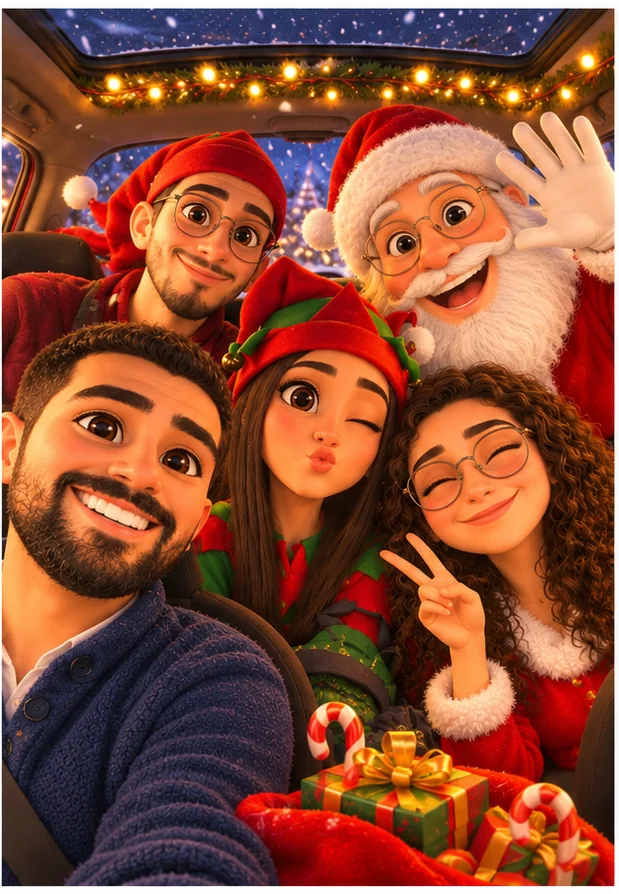
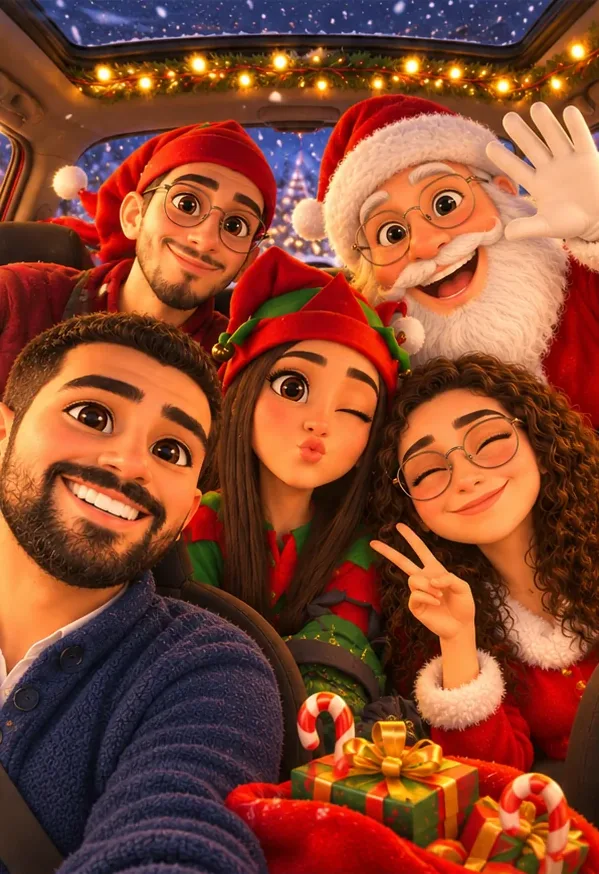
Phone and desktop polish for Santa pages and Christmas Proposal
No orphans at any width (balanced text, even button and link rows), numbers
centred in step circles, outlined Team Sign In, centred map tools, sign-in
picture shows every face, admin fits 360px phones, proposal drops the
Contact form button.

diff --git a/public/santa/theme.css b/public/santa/theme.css
@@ -685,7 +685,7 @@ html { scroll-behavior: smooth; }
 @media (max-width: 819px) {
   .hero-strip { text-align: left; }
 }
-@media (max-width: 420px) {
+@media (max-width: 599px) {
   .hero-strip { grid-template-columns: minmax(0, 1fr); }
   .hero-strip li { grid-template-columns: 30px 1fr; align-items: center; gap: 12px; }
   .hero-strip li + li { border-left: 0; border-top: 1px solid var(--border); }
@@ -695,3 +695,72 @@ html { scroll-behavior: smooth; }
 .gold-rule { display: none; }
 .wrap.page { padding-top: 22px; }
 .crumbs { margin-bottom: -26px; }
+
+/* ---------- Phones: no lone words, numbers centred in circles, tidy link rows ---------- */
+/* Every line of text balances, so no line ends on a lone word (form fields wrap normally) */
+body { text-wrap: balance; }
+:is(input, textarea, select) { text-wrap: wrap; }
+/* Playfair's old-style figures sit low in a circle; use full-height figures, centred */
+.step .n, legend .n, .hero-strip b { font-variant-numeric: lining-nums; line-height: 1; }
+
+/* Team Sign In: an outlined button, quieter than Ask a Question */
+.btn-team, .santa-links a[href="admin.html"] { box-shadow: inset 0 0 0 1.5px rgba(87, 22, 7, .35); }
+.btn-team:hover, .santa-links a[href="admin.html"]:hover { box-shadow: inset 0 0 0 1.5px var(--brand); text-decoration: none; }
+.s-hero-body .btn-team { padding-inline: .9rem; }
+@media (min-width: 820px) { .s-hero-body .btn-team { padding-inline: .7rem; } }
+
+/* Bottom Santa links: an even two-by-two grid on phones, centred */
+@media (max-width: 699px) {
+  .santa-links { display: grid; grid-template-columns: repeat(4, minmax(0, 1fr)); gap: 8px; justify-items: stretch; text-align: center; }
+}
+@media (max-width: 479px) { .santa-links { grid-template-columns: repeat(2, minmax(0, 1fr)); } }
+@media (max-width: 699px) {
+  .santa-links-title { grid-column: 1 / -1; }
+  .santa-links a { text-align: center; padding: 10px 8px; }
+}
+
+/* Phones: How It Works cards centred; follow-us pills big enough to tap */
+@media (max-width: 759px) { .step { justify-items: center; text-align: center; } }
+.pill { min-height: 40px; display: inline-flex; align-items: center; padding-inline: 16px; }
+
+/* Home hero buttons on desktop: Reserve, Ask a Question and Team Sign In on one row.
+   Between 820 and 1099px there isn't room, so Reserve takes the first row and the other two share the second. */
+@media (min-width: 421px) and (max-width: 1099px) {
+  .s-hero-body .actions { display: grid; grid-template-columns: 1fr 1fr; }
+  .s-hero-body .actions > :first-child { grid-column: 1 / -1; }
+  .s-hero-body .actions > * { justify-content: center; }
+}
+@media (min-width: 1100px) {
+  .s-hero-body { padding-inline: 36px; }
+  .s-hero-body .actions { flex-wrap: nowrap; gap: 8px; }
+  .s-hero-body .actions > * { flex: 0 1 auto; white-space: nowrap; font-size: 14.5px; }
+  .s-hero-body .btn-primary, .s-hero-body .btn-secondary { padding: .75rem .85rem; }
+  .s-hero-body .btn-team { padding: .75rem .6rem; gap: 6px; }
+}
+
+/* No orphans at any width: short text balances its lines, longer text never ends on a lone word */
+.s-cta .btn-gold.big { white-space: nowrap; }
+@media (max-width: 400px) { .s-cta .btn-gold.big { font-size: 16px; padding: 18px 16px; } }
+
+/* Follow Us: the three links share one even row */
+.pill-row { display: grid; grid-auto-flow: column; grid-auto-columns: minmax(0, 1fr); gap: 8px; width: min(100%, 360px); margin-inline: auto; }
+.pill-row .pill { justify-content: center; padding-inline: 8px; }
+
+/* Book: the map hint and "Use my current location" sit centred under the map */
+.map-tools { display: flex; flex-direction: column; align-items: center; gap: 10px; text-align: center; }
+.map-tools .pin-state { text-align: center; }
+
+/* The three-step strip stacks wherever its columns would be too narrow (phones, and the 820-1099px hero) */
+@media (min-width: 820px) and (max-width: 1099px) {
+  .hero-strip { grid-template-columns: minmax(0, 1fr); text-align: left; }
+  .hero-strip li { grid-template-columns: 30px 1fr; align-items: center; gap: 12px; }
+  .hero-strip li + li { border-left: 0; border-top: 1px solid var(--border); }
+}
+
+/* Very small phones (320-380px): slightly smaller headings so their lines break evenly */
+@media (max-width: 400px) { legend .tt { font-size: 20px; } }
+@media (max-width: 345px) { legend .tt { font-size: 18px; } }
+@media (max-width: 359px) {
+  .s-cta h2 { font-size: 28px; }
+  .crumbs { gap: 5px; font-size: 12px; }
+}

diff --git a/public/santa/admin.html b/public/santa/admin.html
@@ -64,6 +64,7 @@ h3 { margin: 0; font-size: 16px; font-weight: 600; }
 .login form { background: #fff; border: 1px solid var(--line); border-radius: 16px; padding: 28px; width: min(380px, 100%); display: grid; gap: 14px; }
 .login img { width: 76px; justify-self: center; }
 .login h1 { font-size: 24px; margin: 0; text-align: center; }
+.login :is(h1, p, a) { text-wrap: balance; }
 .login label { display: grid; gap: 4px; font-weight: 500; }
 .err { color: var(--cancel); font-size: 14px; }
 
@@ -97,7 +98,7 @@ h3 { margin: 0; font-size: 16px; font-weight: 600; }
 .bottom-nav { display: none; }
 main { padding: 26px 28px 60px; display: grid; gap: 16px; max-width: 1240px; width: 100%; margin: 0 auto; align-content: start; }
 @media (max-width: 899px) {
-  .shell { grid-template-columns: 1fr; }
+  .shell { grid-template-columns: minmax(0, 1fr); }
   .side { display: none; }
   .mobile-bar {
     display: flex; align-items: center; gap: 10px; position: sticky; top: 0; z-index: 30; background: #fff;
@@ -330,6 +331,16 @@ pre.wa { white-space: pre-wrap; background: var(--bg); border-radius: 10px; padd
 .gate:disabled { cursor: not-allowed; opacity: .85; }
 .gate-hint { display: block; font-size: 12px; color: var(--muted, #6b6b6b); margin: 0 2px 10px; line-height: 1.35; }
 .mobile-bar .gate { width: auto; margin: 0; }
+/* Narrow phones: the title gives way so the buttons never push the page sideways */
+.mobile-bar b { min-width: 0; white-space: nowrap; overflow: hidden; text-overflow: ellipsis; }
+.mobile-bar .btn { flex: none; white-space: nowrap; }
+@media (max-width: 380px) { .mobile-bar { gap: 8px; padding-inline: 12px; } }
+/* Bottom tabs share the width evenly, so five tabs fit even a 360px phone */
+@media (max-width: 899px) {
+  .bottom-nav { grid-template-columns: repeat(5, minmax(0, 1fr)); }
+  .bottom-nav .tab { min-width: 0; }
+  .bottom-nav .tab > span:not(.count) { max-width: 100%; overflow: hidden; text-overflow: ellipsis; white-space: nowrap; }
+}
 /* Sidebar fits the screen: compact spacing, scrolls inside if the window is short,
    with "Signed in as … · Sign out" pinned to the bottom. */
 .side { height: 100vh; height: 100dvh; gap: 2px; padding: 14px 12px 0; overflow-y: auto; overscroll-behavior: contain; scrollbar-width: thin; }
@@ -355,11 +366,13 @@ pre.wa { white-space: pre-wrap; background: var(--bg); border-radius: 10px; padd
   box-shadow: 0 24px 50px -28px rgba(58, 15, 4, .35);
 }
 .login-card form { border: 0; border-radius: 0; width: 100%; padding: 32px; align-content: center; }
-.login .login-photo { display: block; height: 240px; }
-.login .login-photo img { width: 100%; height: 100%; object-fit: cover; object-position: 50% 30%; display: block; justify-self: stretch; }
+/* Phones: a square crop so every face (hats to Santa's smile) stays in the picture */
+.login .login-photo { display: block; aspect-ratio: 1 / 1; }
+.login .login-photo img { width: 100%; height: 100%; object-fit: cover; object-position: 50% 45%; display: block; justify-self: stretch; }
 @media (min-width: 760px) {
   .login-card { grid-template-columns: 1fr 1fr; min-height: 560px; }
-  .login .login-photo { height: auto; }
+  .login .login-photo { aspect-ratio: auto; }
+  .login .login-photo img { object-position: 50% 50%; }
   .login-card form { padding: 40px; }
 }
 </style>
@@ -370,7 +383,7 @@ pre.wa { white-space: pre-wrap; background: var(--bg); border-radius: 10px; padd
   <div class="login-card">
   <picture class="login-photo">
     <source srcset="signin-hero.webp" type="image/webp">
-    <img src="signin-hero.jpg" width="619" height="894" alt="">
+    <img src="signin-hero.jpg" width="599" height="874" alt="">
   </picture>
   <form id="login-form">
     <img src="logo.png" alt="">

diff --git a/public/santa/book.html b/public/santa/book.html
@@ -127,7 +127,7 @@ Greek Orthodox Scouts &amp; Guides - Swefieh
     <div class="s-hero-art">
       <picture class="hero-photo">
         <source srcset="book-hero.webp" type="image/webp">
-        <img src="book-hero.jpg" width="619" height="894" alt="Illustration of Santa waving with Mrs. Claus, two elves and our driver in the car">
+        <img src="book-hero.jpg" width="599" height="874" alt="Illustration of Santa waving with Mrs. Claus, two elves and our driver in the car">
       </picture>
     </div>
     <div class="s-hero-body">
@@ -228,7 +228,7 @@ Greek Orthodox Scouts &amp; Guides - Swefieh
     <hr class="sep">
 
     <fieldset>
-      <legend><span class="n">4</span><span class="tt">How Will You Donate? <span style="color:var(--gold);font-size:12px;vertical-align:4px">✦</span></span></legend>
+      <legend><span class="n">4</span><span class="tt">How Will You&nbsp;Donate? <span style="color:var(--gold);font-size:12px;vertical-align:4px">✦</span></span></legend>
       <div class="pay">
         <label><input type="radio" name="pay" value="cash"><span>Cash on the visit</span></label>
         <label><input type="radio" name="pay" value="cliq"><span>CliQ</span></label>

diff --git a/public/santa/index.html b/public/santa/index.html
@@ -144,7 +144,7 @@ Greek Orthodox Scouts &amp; Guides - Swefieh
       <h1>Santa's <span class="accent">Christmas Eve</span> Visits</h1>
       <p class="lede">On the most magical night of the year, Santa and our scouts come to your door with carols, joy, and the gift you have prepared for your little ones.</p>
       <dl class="when">
-        <div><dt>Date</dt><dd><span id="f-day">Thursday</span> <span id="f-num">24</span> <span id="f-month">December</span></dd></div>
+        <div><dt>Date</dt><dd><span id="f-day">Thursday</span> <span id="f-num">24</span>&nbsp;<span id="f-month">December</span></dd></div>
         <div><dt>Visiting hours</dt><dd id="f-hours">3:00 – 10:30 PM</dd></div>
       </dl>
       <p class="note" id="cta-note">Places are limited on the night. Reserve early.</p>
